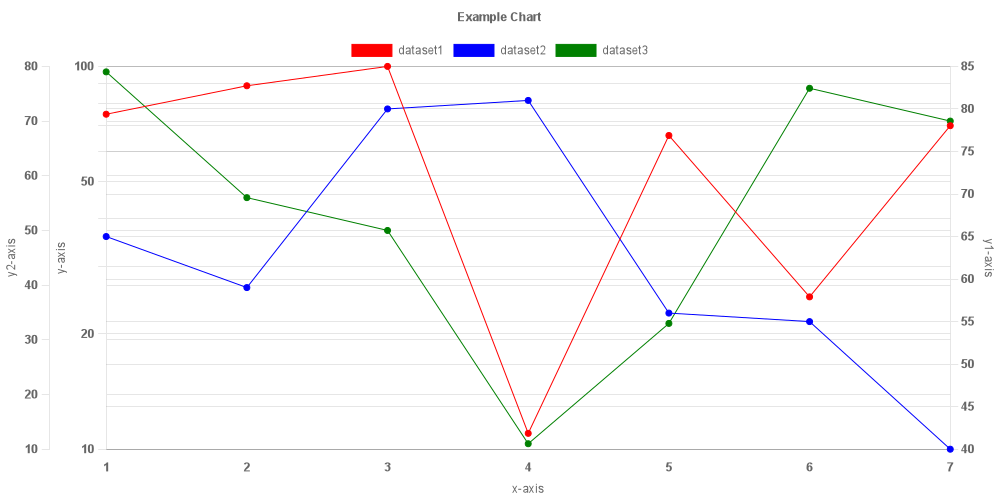
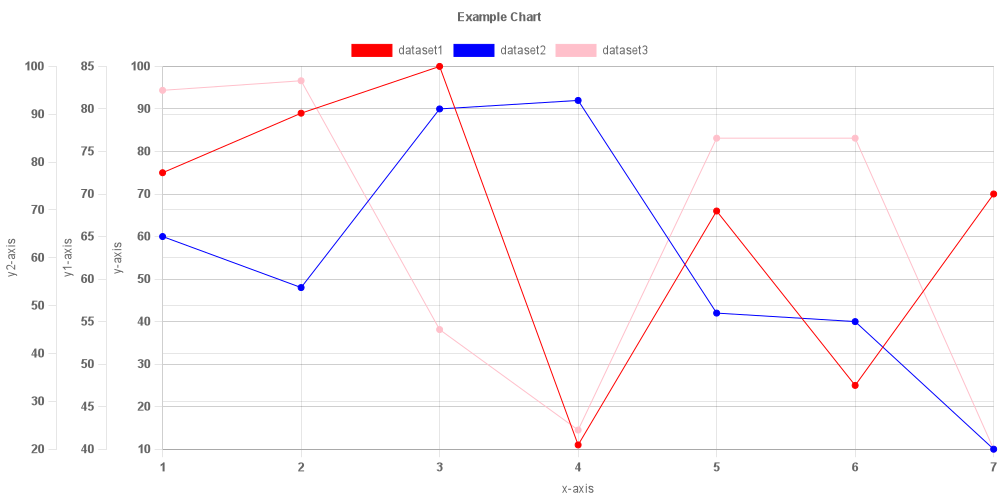
added multi-axis-line-chart in csv/orchestrator

diff --git a/microservice09/controllers/multiAxisLineChartController.js b/microservice09/controllers/multiAxisLineChartController.js
@@ -1,0 +1,161 @@
+function isValidScaleType(type) {
+  return ["linear", "logarithmic", "category"].includes(type);
+}
+
+function isValidScalePosition(position) {
+  return ["left", "right"].includes(position);
+}
+
+function isNumber(input) {
+  return !isNaN(input);
+}
+
+function isYFormat(input) {
+  return /^y\d*$/.test(input);
+}
+
+function isValidColorString(colorString) {
+  const regex =
+    /^((red|blue|black|purple|yellow)|(pink)|(rgb(a)?\(\s*(\d+)\s*,\s*(\d+)\s*,\s*(\d+)\s*(,\s*(\d*\.?\d+))?\s*\)))$/i;
+  return regex.test(colorString);
+}
+
+exports.getMultiAxisLineChartConfig = (data) => {
+  try {
+    const multiAxisLineChartConfiguration = {
+      xaxis: {
+        labels: [],
+      },
+      yaxis: {
+        datasets: [],
+        axis: [],
+      },
+    };
+
+    if (data["width"]) {
+      if (!isNumber(data["width"])) return null;
+      multiAxisLineChartConfiguration["width"] = parseInt(data["width"]);
+    }
+    if (data["height"]) {
+      if (!isNumber(data["height"])) return null;
+      multiAxisLineChartConfiguration["height"] = parseInt(data["height"]);
+    }
+    if (data["title"]) multiAxisLineChartConfiguration["title"] = data["title"];
+    if (data["X-axis title"])
+      multiAxisLineChartConfiguration["xaxis"]["title"] = data["X-axis title"];
+
+    let i = 0;
+
+    while (data[i == 0 ? "Y-axis title" : `Y${i}-axis title`] != null) {
+      multiAxisLineChartConfiguration["yaxis"]["axis"].push({
+        title: data[i == 0 ? "Y-axis title" : `Y${i}-axis title`],
+      });
+      i++;
+    }
+
+    if (data["X-axis grid"]) {
+      if (data["X-axis grid"].toLowerCase() == "true")
+        multiAxisLineChartConfiguration["xaxis"]["grid"] = true;
+      else if (data["X-axis grid"].toLowerCase() == "false")
+        multiAxisLineChartConfiguration["xaxis"]["grid"] = false;
+      else return null;
+    }
+
+    i = 0;
+    while (data[i == 0 ? "Y-axis grid" : `Y${i}-axis grid`]) {
+      if (
+        data[i == 0 ? "Y-axis grid" : `Y${i}-axis grid`].toLowerCase() == "true"
+      )
+        multiAxisLineChartConfiguration["yaxis"]["axis"][i]["grid"] = true;
+      else if (
+        data[i == 0 ? "Y-axis grid" : `Y${i}-axis grid`].toLowerCase() ==
+        "false"
+      )
+        multiAxisLineChartConfiguration["yaxis"]["axis"][i]["grid"] = false;
+      else return null;
+      i++;
+    }
+
+    i = 0;
+    while (data[i == 0 ? "Y-axis beginAtZero" : `Y${i}-axis beginAtZero`]) {
+      if (
+        data[
+          i == 0 ? "Y-axis beginAtZero" : `Y${i}-axis beginAtZero`
+        ].toLowerCase() == "true"
+      )
+        multiAxisLineChartConfiguration["yaxis"]["axis"][i][
+          "beginAtZero"
+        ] = true;
+      else if (
+        data[
+          i == 0 ? "Y-axis beginAtZero" : `Y${i}-axis beginAtZero`
+        ].toLowerCase() == "false"
+      )
+        multiAxisLineChartConfiguration["yaxis"]["axis"][i][
+          "beginAtZero"
+        ] = false;
+      else return null;
+      i++;
+    }
+
+    i = 0;
+    while (data[i == 0 ? "Y-axis type" : `Y${i}-axis type`]) {
+      if (
+        !isValidScaleType(
+          data[i == 0 ? "Y-axis type" : `Y${i}-axis type`].toLowerCase()
+        )
+      )
+        return null;
+      multiAxisLineChartConfiguration["yaxis"]["axis"][i]["type"] =
+        data[i == 0 ? "Y-axis type" : `Y${i}-axis type`];
+      i++;
+    }
+
+    i = 0;
+    while (data[i == 0 ? "Y-axis position" : `Y${i}-axis position`]) {
+      if (
+        !isValidScalePosition(
+          data[i == 0 ? "Y-axis position" : `Y${i}-axis position`].toLowerCase()
+        )
+      )
+        return null;
+      multiAxisLineChartConfiguration["yaxis"]["axis"][i]["position"] =
+        data[i == 0 ? "Y-axis position" : `Y${i}-axis position`];
+      i++;
+    }
+
+    let labels = data["data"].split("labels")[1];
+
+    const startIndex = labels.indexOf("[");
+    const endIndex = labels.lastIndexOf("]");
+
+    const arrayString = labels.slice(startIndex, endIndex + 1);
+    const jsonStr = arrayString.replace(/\s+/g, ",");
+    const array = JSON.parse(jsonStr);
+    multiAxisLineChartConfiguration["xaxis"]["labels"] = array;
+
+    hasDataset = false;
+    i = 1;
+    while (data[`DATASET${i}`] != null) {
+      hasDataset = true;
+      let dataset = data[`DATASET${i}`].split(",");
+      let jsonStr = dataset[1].replace(/\s+/g, ",");
+      if (!isValidColorString(dataset[3]) && dataset[3] != "") return null;
+      if (!isYFormat(dataset[4])) return null;
+
+      multiAxisLineChartConfiguration.yaxis.datasets.push({
+        label: dataset[0],
+        data: JSON.parse(jsonStr),
+        fill: dataset[2].toLowerCase() == "fill" ? true : false,
+        color: dataset[3],
+        yAxisID: dataset[4],
+      });
+      i++;
+    }
+    if (!hasDataset) return null;
+
+    return multiAxisLineChartConfiguration;
+  } catch (err) {
+    return null;
+  }
+};

diff --git a/microservice09/controllers/csvController.js b/microservice09/controllers/csvController.js
@@ -1,4 +1,5 @@
 const lineChartController = require("./lineChartController");
+const multiAxisLineChartController = require("./multiAxisLineChartController");
 
 exports.readCSVFile = async (req, res, next) => {
   try {
@@ -30,6 +31,15 @@ exports.readCSVFile = async (req, res, next) => {
     } else if (data["type"] == "line-chart") {
       type = "line-chart";
       config = lineChartController.getLineChartConfig(data);
+      if (!config) {
+        return res.status(400).json({
+          status: "failed",
+          message: "The file you uploaded contains errors!",
+        });
+      }
+    } else if (data["type"] == "multi-axis-line-chart") {
+      type = "multi-axis-line-chart";
+      config = multiAxisLineChartController.getMultiAxisLineChartConfig(data);
       if (!config) {
         return res.status(400).json({
           status: "failed",

diff --git a/microservice01/controllers/diagramController.js b/microservice01/controllers/diagramController.js
@@ -1,14 +1,21 @@
 const axios = require("axios");
 
 exports.createChart = async (req, res, next) => {
-  if (req.type == "line-chart") createLineChart(req, res, next);
-};
-
-const createLineChart = async (req, res, next) => {
   try {
+    let service;
+    if (req.type == "line-chart") service = process.env.LINE_CHART_SERVICE;
+    else if ((req.type = "multi-axis-line-chart"))
+      service = process.env.MULTI_AXIS_LINE_CHART_SERVICE;
+    else {
+      return res.status(400).json({
+        status: "failed",
+        message: "There is no chart with this type!",
+      });
+    }
+
     const response = await axios({
       method: "post",
-      url: `${process.env.LINE_CHART_SERVICE}/create`,
+      url: `${service}/create`,
       responseType: "arraybuffer",
       data: req.config,
     });

diff --git a/microservice04/controllers/diagramController.js b/microservice04/controllers/diagramController.js
@@ -109,7 +109,6 @@ exports.createDiagram = async (req, res, next) => {
         datasets: datasets,
       },
       options: {
-        stacked: req.body.stacked ? true : false,
         responsive: true,
         plugins: {
           legend: {
